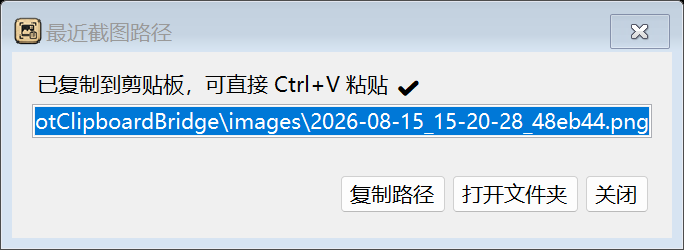
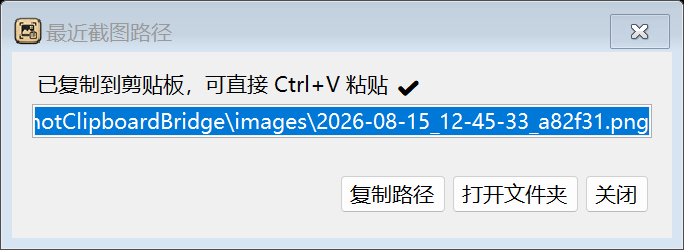
security: 移除截图与预览路径中的真实用户名
- layout-preview 改用示例路径（C:\\Users\\YourName\\...）渲染截图
- 重新生成 docs/screenshots 两张界面截图，不再含真实用户名

Changed region(s): [[0.0307, 0.448, 0.8904, 0.532]]

diff --git a/src/ScreenshotClipboardBridge/Program.cs b/src/ScreenshotClipboardBridge/Program.cs
@@ -90,14 +90,15 @@ internal static class Program
         try
         {
             Directory.CreateDirectory(outputDir);
-            var config = new Config();
-            var store = new Core.ScreenshotStore(() => AppPaths.DefaultImageDir);
+
+            // 预览模式使用示例路径（不泄露真实用户名），仅用于截图渲染。
+            const string samplePath = @"C:\Users\YourName\AppData\Local\ScreenshotClipboardBridge\images\2026-08-15_12-45-33_a82f31.png";
+            var config = new Config { SaveDirectory = @"C:\Users\YourName\AppData\Local\ScreenshotClipboardBridge\images" };
+            var store = new Core.ScreenshotStore(() => config.SaveDirectory);
 
             var settings = new UI.SettingsForm(config, store);
             settings.Show();
-            var pathDialog = new UI.PathDialog(
-                @"C:\Users\tian51\AppData\Local\ScreenshotClipboardBridge\images\2026-08-15_15-20-28_48eb44.png",
-                () => { });
+            var pathDialog = new UI.PathDialog(samplePath, () => { });
             pathDialog.Show();
 
             // 让窗口完成一次真实布局渲染
